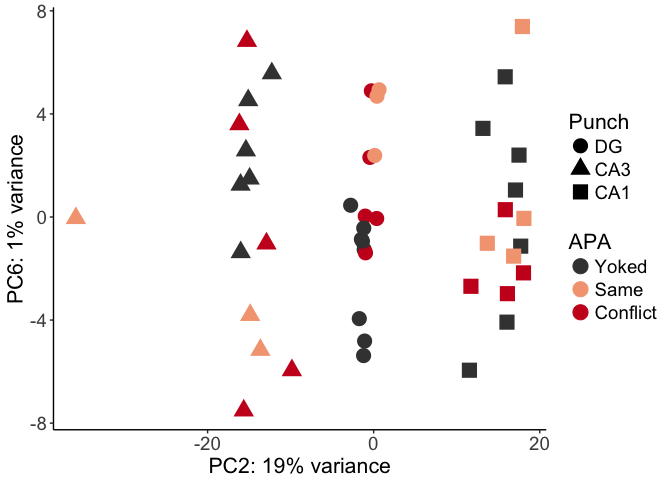
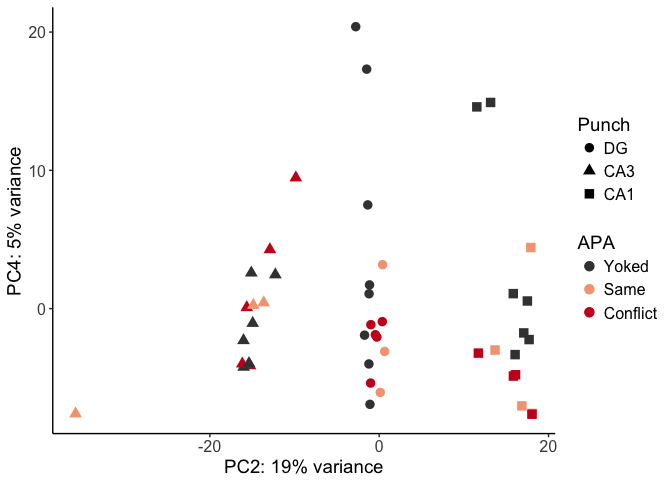
new pca plots

diff --git a/RmdFiles/Fig3_rnaseq.md b/RmdFiles/Fig3_rnaseq.md
@@ -630,8 +630,6 @@ Now let's look at a heat map of the data
 
 ``` r
 source("figureoptions.R")
-
-
 DEGes <- assay(rld)
 DEGes <- cbind(DEGes, contrast1, contrast2, contrast3, contrast4, contrast5, contrast6)
 DEGes <- as.data.frame(DEGes) # convert matrix to dataframe
@@ -759,52 +757,60 @@ Now lets look at a principle component analysis of the data
 
 ``` r
 source("functions_RNAseq.R")
-
 # create the dataframe using my function pcadataframe
 pcadata <- pcadataframe(rld, intgroup=c("Punch","APA"), returnData=TRUE)
 percentVar <- round(100 * attr(pcadata, "percentVar"))
-
 #pcadata$Treatment <- factor(pcadata$Treatment, levels = c("homecage", "shocked"))
 
-## plot a bunch of pca plots using my ggplot functions DESeqPCAfunction.R, with the color defined infigureoptions.R
-plotPC1PC2(aescolor = pcadata$APA, colorname = "APA", aesshape = pcadata$Punch, shapename = "Punch", colorvalues = colorvalAPA)
+## pca plots 
+plotPCs(pcadata, 2, 4, aescolor = pcadata$APA, colorname = "APA", aesshape = pcadata$Punch, shapename = "Punch",  colorvalues = colorvalAPA)
 ```
+
+    ## Don't know how to automatically pick scale for object of type data.frame. Defaulting to continuous.
+    ## Don't know how to automatically pick scale for object of type data.frame. Defaulting to continuous.
 
 ![](../figures/Fig3/pca-1.png)
 
 ``` r
-plotPC2PC6(aescolor = pcadata$APA, colorname = "APA", aesshape = pcadata$Punch, shapename = "Punch", colorvalues = colorvalAPA)
+plotPCs(pcadata, 2, 4, aescolor = pcadata$APA, colorname = "APA", aesshape = pcadata$Punch, shapename = "Punch",  colorvalues = colorvalAPA)
 ```
+
+    ## Don't know how to automatically pick scale for object of type data.frame. Defaulting to continuous.
+    ## Don't know how to automatically pick scale for object of type data.frame. Defaulting to continuous.
 
 ![](../figures/Fig3/pca-2.png)
 
 ``` r
-# I like this plot because it shows that DGxSame samples are a small cluster
-plotPC2PC4(aescolor = pcadata$APA, colorname = "APA", aesshape = pcadata$Punch, shapename = "Punch", colorvalues = colorvalAPA)
+# I think this plot shows greater variance in yoked than in trained
+plotPCs(pcadata, 2, 6, aescolor = pcadata$APA, colorname = "APA", aesshape = pcadata$Punch, shapename = "Punch",  colorvalues = colorvalAPA)
 ```
+
+    ## Don't know how to automatically pick scale for object of type data.frame. Defaulting to continuous.
+    ## Don't know how to automatically pick scale for object of type data.frame. Defaulting to continuous.
 
 ![](../figures/Fig3/pca-3.png)
 
 ``` r
-# I think this plot shows greater variance in yoked than in trained
-
-
-# I think this plot shows greater variance in yoked than in trained
-PCA12 <- plotPC1PC2(aescolor = pcadata$APA, colorname = "APA", aesshape = pcadata$Punch, shapename = "Punch", colorvalues = colorvalAPA)
-PCA26 <- plotPC2PC6(aescolor = pcadata$APA, colorname = "APA", aesshape = pcadata$Punch, shapename = "Punch", colorvalues = colorvalAPA)
-PCA24 <- plotPC2PC4(aescolor = pcadata$APA, colorname = "APA", aesshape = pcadata$Punch, shapename = "Punch", colorvalues = colorvalAPA)
-
-pdf(file="../figures/Fig3/PCA12.pdf", width=4.5, height=3)
-plot(PCA12)
-dev.off()
+# I like this plot because it shows that DGxSame samples are a small cluster
+plotPCs(pcadata, 1, 5, aescolor = pcadata$APA, colorname = "APA", aesshape = pcadata$Punch, shapename = "Punch",  colorvalues = colorvalAPA)
 ```
 
-    ## quartz_off_screen 
-    ##                 2
+    ## Don't know how to automatically pick scale for object of type data.frame. Defaulting to continuous.
+    ## Don't know how to automatically pick scale for object of type data.frame. Defaulting to continuous.
+
+![](../figures/Fig3/pca-4.png)
 
 ``` r
-pdf(file="../figures/Fig3/PCA26.pdf", width=4.5, height=3)
-plot(PCA26)
+# pdf the same pca plots descripbed above of the above
+pdf(file="../figures/Fig3/PCA12.pdf", width=4.5, height=3)
+PCA12 <- plotPCs(pcadata, 1,2, aescolor = pcadata$APA, colorname = "APA", aesshape = pcadata$Punch, shapename = "Punch",  colorvalues = colorvalAPA)
+plot(PCA12)
+```
+
+    ## Don't know how to automatically pick scale for object of type data.frame. Defaulting to continuous.
+    ## Don't know how to automatically pick scale for object of type data.frame. Defaulting to continuous.
+
+``` r
 dev.off()
 ```
 
@@ -813,7 +819,46 @@ dev.off()
 
 ``` r
 pdf(file="../figures/Fig3/PCA24.pdf", width=4.5, height=3)
+PCA24 <- plotPCs(pcadata, 2,4, aescolor = pcadata$APA, colorname = "APA", aesshape = pcadata$Punch, shapename = "Punch",  colorvalues = colorvalAPA)
 plot(PCA24)
+```
+
+    ## Don't know how to automatically pick scale for object of type data.frame. Defaulting to continuous.
+    ## Don't know how to automatically pick scale for object of type data.frame. Defaulting to continuous.
+
+``` r
+dev.off()
+```
+
+    ## quartz_off_screen 
+    ##                 2
+
+``` r
+pdf(file="../figures/Fig3/PCA26.pdf", width=4.5, height=3)
+PCA26 <- plotPCs(pcadata, 2,6, aescolor = pcadata$APA, colorname = "APA", aesshape = pcadata$Punch, shapename = "Punch",  colorvalues = colorvalAPA)
+plot(PCA26)
+```
+
+    ## Don't know how to automatically pick scale for object of type data.frame. Defaulting to continuous.
+    ## Don't know how to automatically pick scale for object of type data.frame. Defaulting to continuous.
+
+``` r
+dev.off()
+```
+
+    ## quartz_off_screen 
+    ##                 2
+
+``` r
+pdf(file="../figures/Fig3/PCA26.pdf", width=4.5, height=3)
+PCA15 <- plotPCs(pcadata, 1,5, aescolor = pcadata$APA, colorname = "APA", aesshape = pcadata$Punch, shapename = "Punch",  colorvalues = colorvalAPA)
+plot(PCA15)
+```
+
+    ## Don't know how to automatically pick scale for object of type data.frame. Defaulting to continuous.
+    ## Don't know how to automatically pick scale for object of type data.frame. Defaulting to continuous.
+
+``` r
 dev.off()
 ```
 
@@ -824,7 +869,6 @@ Now for some basic stats about the read and gene counts
 
 ``` r
 ## stats
-
 counts <- countData
 dim( counts )
 ```
